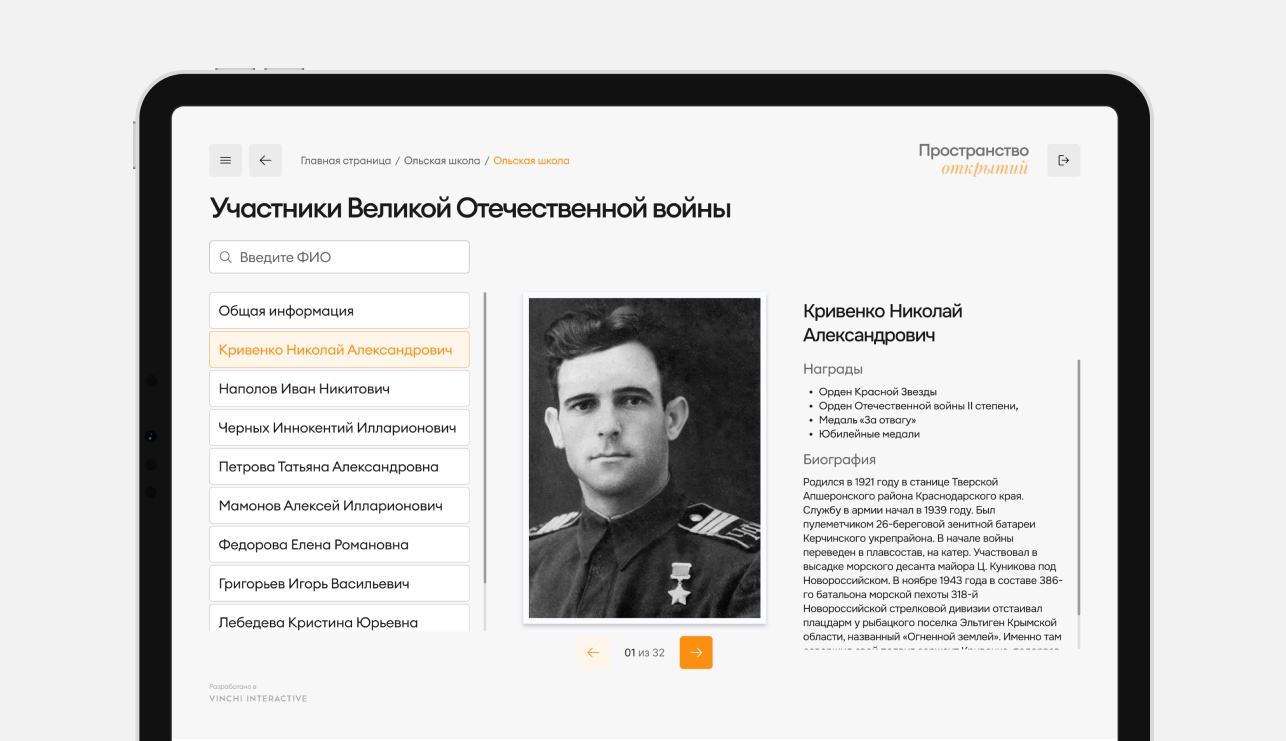
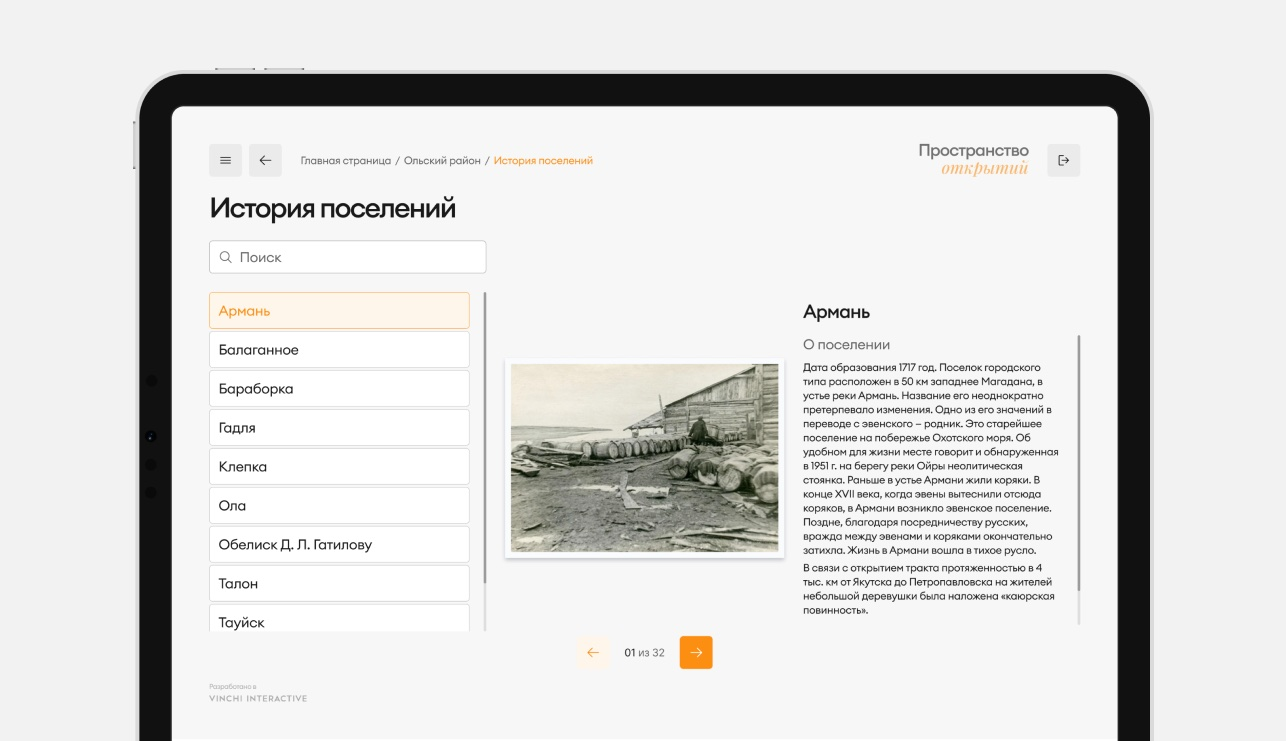
КраеВидение: исправленный скриншот поиска, ползунок «до/после» по умолчанию посередине

diff --git a/kraevision/index.html b/kraevision/index.html
@@ -85,7 +85,7 @@
 
     <section class="block kv-hyp" id="search">
       <div class="inset reveal">
-        <figure class="picture"><img src="../assets/cases/kraevision/iter-1.jpg" alt="Поиск по ФИО в разделе «Участники Великой Отечественной войны»" width="1286" height="741" loading="lazy"></figure>
+        <figure class="picture"><img src="../assets/cases/kraevision/iter-1.jpg" alt="Поиск в разделе «История поселений»" width="1286" height="741" loading="lazy"></figure>
         <h3 class="h3" data-toc="2" data-toc-label="Поиск в разделе">Раздел №1. Поиск внутри каждого раздела, а&nbsp;не&nbsp;по&nbsp;всему архиву</h3>
         <div class="prose">
           <p>Агентство предлагало сделать один общий поиск по&nbsp;приложению: так его проще связать с&nbsp;админкой. Но&nbsp;в&nbsp;архиве несколько разделов с&nbsp;людьми: ветераны ВОВ, педагоги, выпускники. При&nbsp;общем поиске по&nbsp;фамилии в&nbsp;выдаче окажутся люди из&nbsp;всех разделов вперемешку.</p>
@@ -142,7 +142,7 @@
           <p>Сканы советских фотографий, снимки со&nbsp;стендов, картинки из&nbsp;старых презентаций, всё это&nbsp;необходимо было восстановить.</p>
           <p>Цветокоррекцию правил вручную, а&nbsp;удаление водяных знаков и&nbsp;обрезку фотографий автоматизировал с&nbsp;помощью AI-инструментов.</p>
         </div>
-        <div class="compare" role="slider" tabindex="0" aria-label="Фотографии до и после обработки" aria-valuemin="0" aria-valuemax="100" aria-valuenow="100">
+        <div class="compare" role="slider" tabindex="0" aria-label="Фотографии до и после обработки" aria-valuemin="0" aria-valuemax="100" aria-valuenow="50">
           <img src="../assets/cases/kraevision/retouch-before.webp" alt="Архивные фотографии до обработки" width="1286" height="741" loading="lazy">
           <img class="compare__after" src="../assets/cases/kraevision/retouch-after.webp" alt="Те же фотографии после обработки" width="1286" height="741" loading="lazy">
           <span class="compare__tag compare__tag--after" aria-hidden="true">После обработки</span>

diff --git a/case.js b/case.js
@@ -235,7 +235,7 @@
   // Слайдер «до / после»: мышью шторка идёт за курсором и возвращается при уходе,
   // на тач-экране тянется пальцем, с клавиатуры — стрелками
   document.querySelectorAll('.compare').forEach((box) => {
-    let pos = 100;
+    let pos = 50;
     let dragging = false;
     const set = (v, anim) => {
       pos = Math.max(0, Math.min(100, v));
@@ -249,11 +249,12 @@
       const r = box.getBoundingClientRect();
       return ((e.clientX - r.left) / r.width) * 100;
     };
+    set(pos, false);
     box.addEventListener('pointerenter', (e) => { if (e.pointerType === 'mouse') set(fromEvent(e), true); });
     box.addEventListener('pointermove', (e) => {
       if (e.pointerType === 'mouse' || dragging) set(fromEvent(e), false);
     });
-    box.addEventListener('pointerleave', (e) => { if (e.pointerType === 'mouse') set(100, true); });
+    box.addEventListener('pointerleave', (e) => { if (e.pointerType === 'mouse') set(50, true); });
     box.addEventListener('pointerdown', (e) => {
       if (e.pointerType === 'mouse') return;
       dragging = true;

diff --git a/case.css b/case.css
@@ -636,7 +636,7 @@ button { font: inherit; color: inherit; background: none; border: 0; padding: 0;
 /* ---------- Слайдер «до / после» ---------- */
 @property --pos { syntax: "<percentage>"; inherits: true; initial-value: 0%; }
 .compare {
-  --pos: 100%;
+  --pos: 50%;
   position: relative;
   aspect-ratio: 1286 / 741;
   border-radius: 24px;
